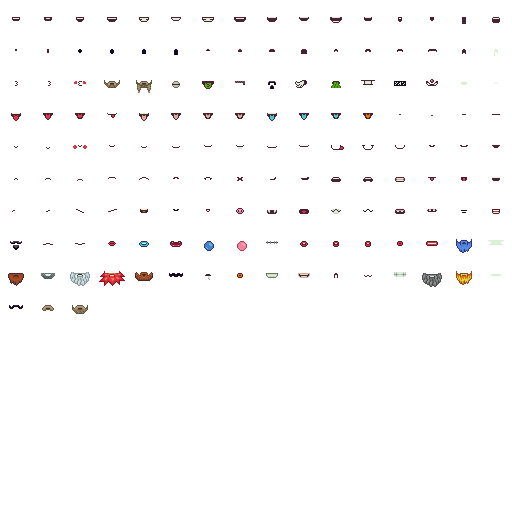
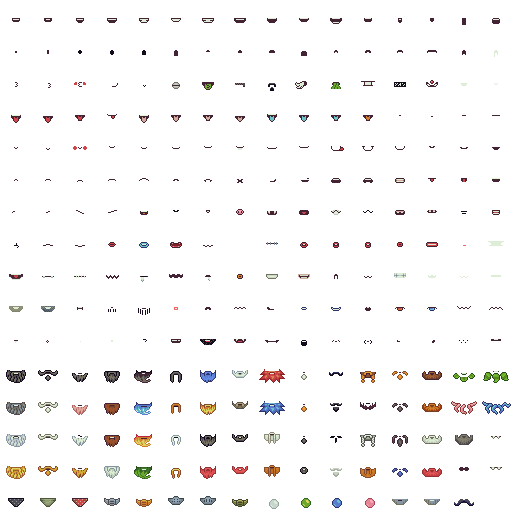
Renderer update

diff --git a/src/helpers/renderer.js b/src/helpers/renderer.js
@@ -16,10 +16,21 @@ function generateAddress() {
 function generateTraits(idHex) {
     const traits = [];
     idHex = idHex.slice(2);
+    const seed = Number("0x"+idHex.slice(36, 40));
     for (let i = 0; i < metadata.length; i++) { // TODO Change when adding a new layer
-        traits.push(Number("0x" + idHex.slice(i * 4, i * 4 + 4)) % metadata[i].length);
+        traits.push((Number("0x" + idHex.slice(i*4, i*4+4)) + seed) % metadata[i].length);
     }
-    console.log(traits)
+
+    // 20% without hat
+    if (seed % 5 === 0) {
+        traits[7] = -1
+    }
+
+    // 75% without extra
+    if (seed % 4 !== 0) {
+        traits[8] = -1
+    }
+
     return traits;
 }
 
@@ -50,9 +61,8 @@ function drawBackground(ctx, id) {
 }
 
 function drawDecoration(ctx, traits) {
-    const id = traits[1];
-    const color_id = traits[2];
-    const color = metadata[2][color_id];
+    const id = traits[2];
+    const color = metadata[1][traits[1]];
 
     if (id !== undefined && color !== undefined) {
 

diff --git a/src/models/traits.js b/src/models/traits.js
@@ -9,7 +9,6 @@ export default [
         "#EAE2B2", "#C7EAB2", "#B5D5A8", "#E0EAB2",
         "#EAD2B2", "#B9E5C7", "#B9E5DD"
     ],
-    [...Array(256).keys()], // 183
     [
         "#E3AABE", "#ADC886", "#C9B0D4", "#E3AAD0",
         "#9EDB83", "#92B8D8", "#86C8C4", "#B8C292",
@@ -20,10 +19,11 @@ export default [
         "#EAE2B2", "#C7EAB2", "#B5D5A8", "#E0EAB2",
         "#EAD2B2", "#B9E5C7", "#B9E5DD"
     ],
-    [...Array(30).keys()], // 3 - Head
-    [...Array(147).keys()], // 4 - Mouth
-    [...Array(128).keys()], // 5 - Eyes
-    [...Array(91).keys()], // 6 - Hair
-    [...Array(109).keys()], // 7 - Hat
-    [...Array(25).keys()], // 8 - Extra
+    [...Array(256).keys()], // 1 - Decoration
+    [...Array(30).keys()], // 2 - Head
+    [...Array(256).keys()], // 3 - Mouth
+    [...Array(256).keys()], // 4 - Eyes
+    [...Array(256).keys()], // 5 - Hair
+    [...Array(256).keys()], // 6 - Hat
+    [...Array(26).keys()], // 7 - Extra
 ];
